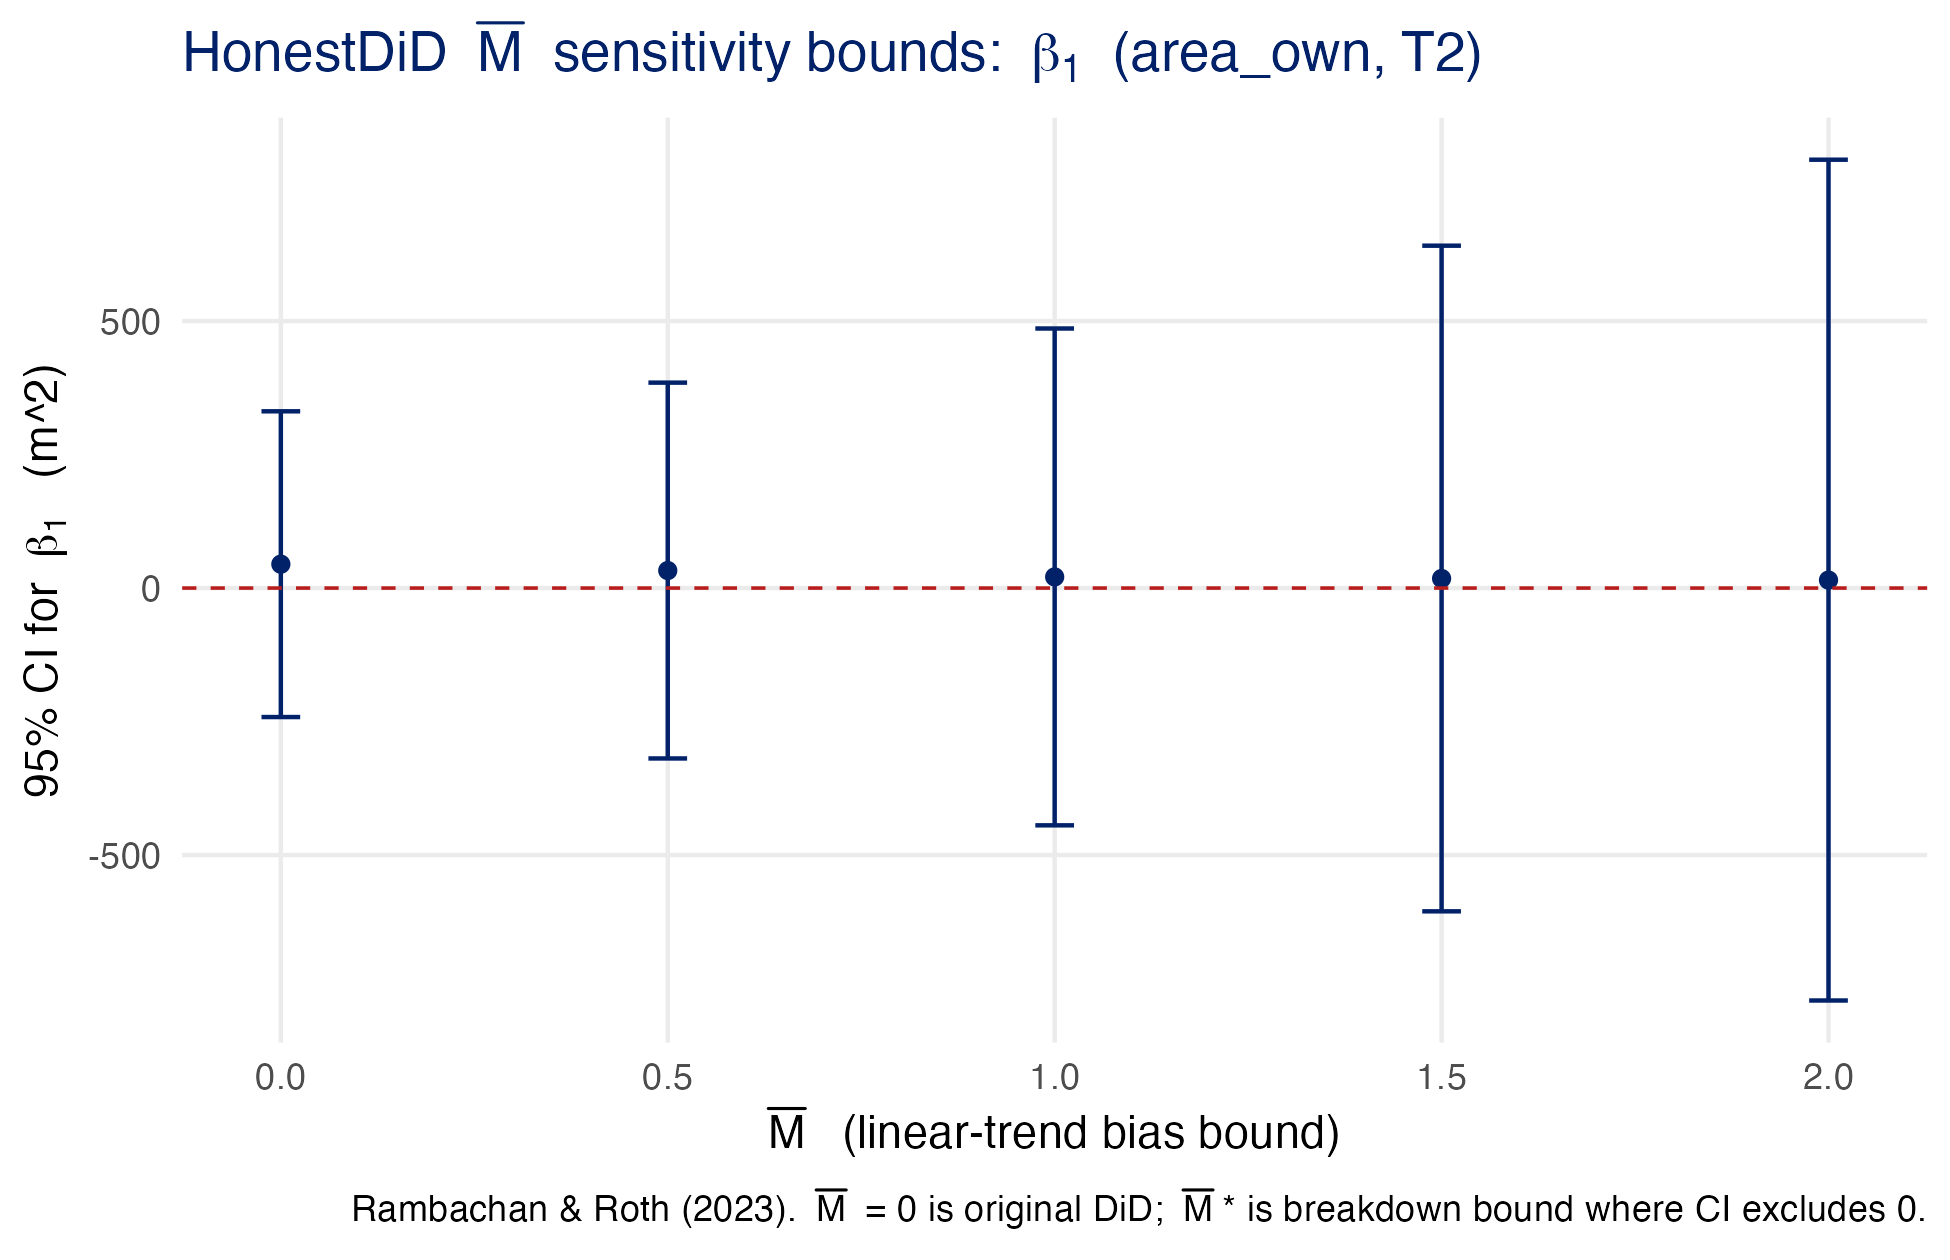
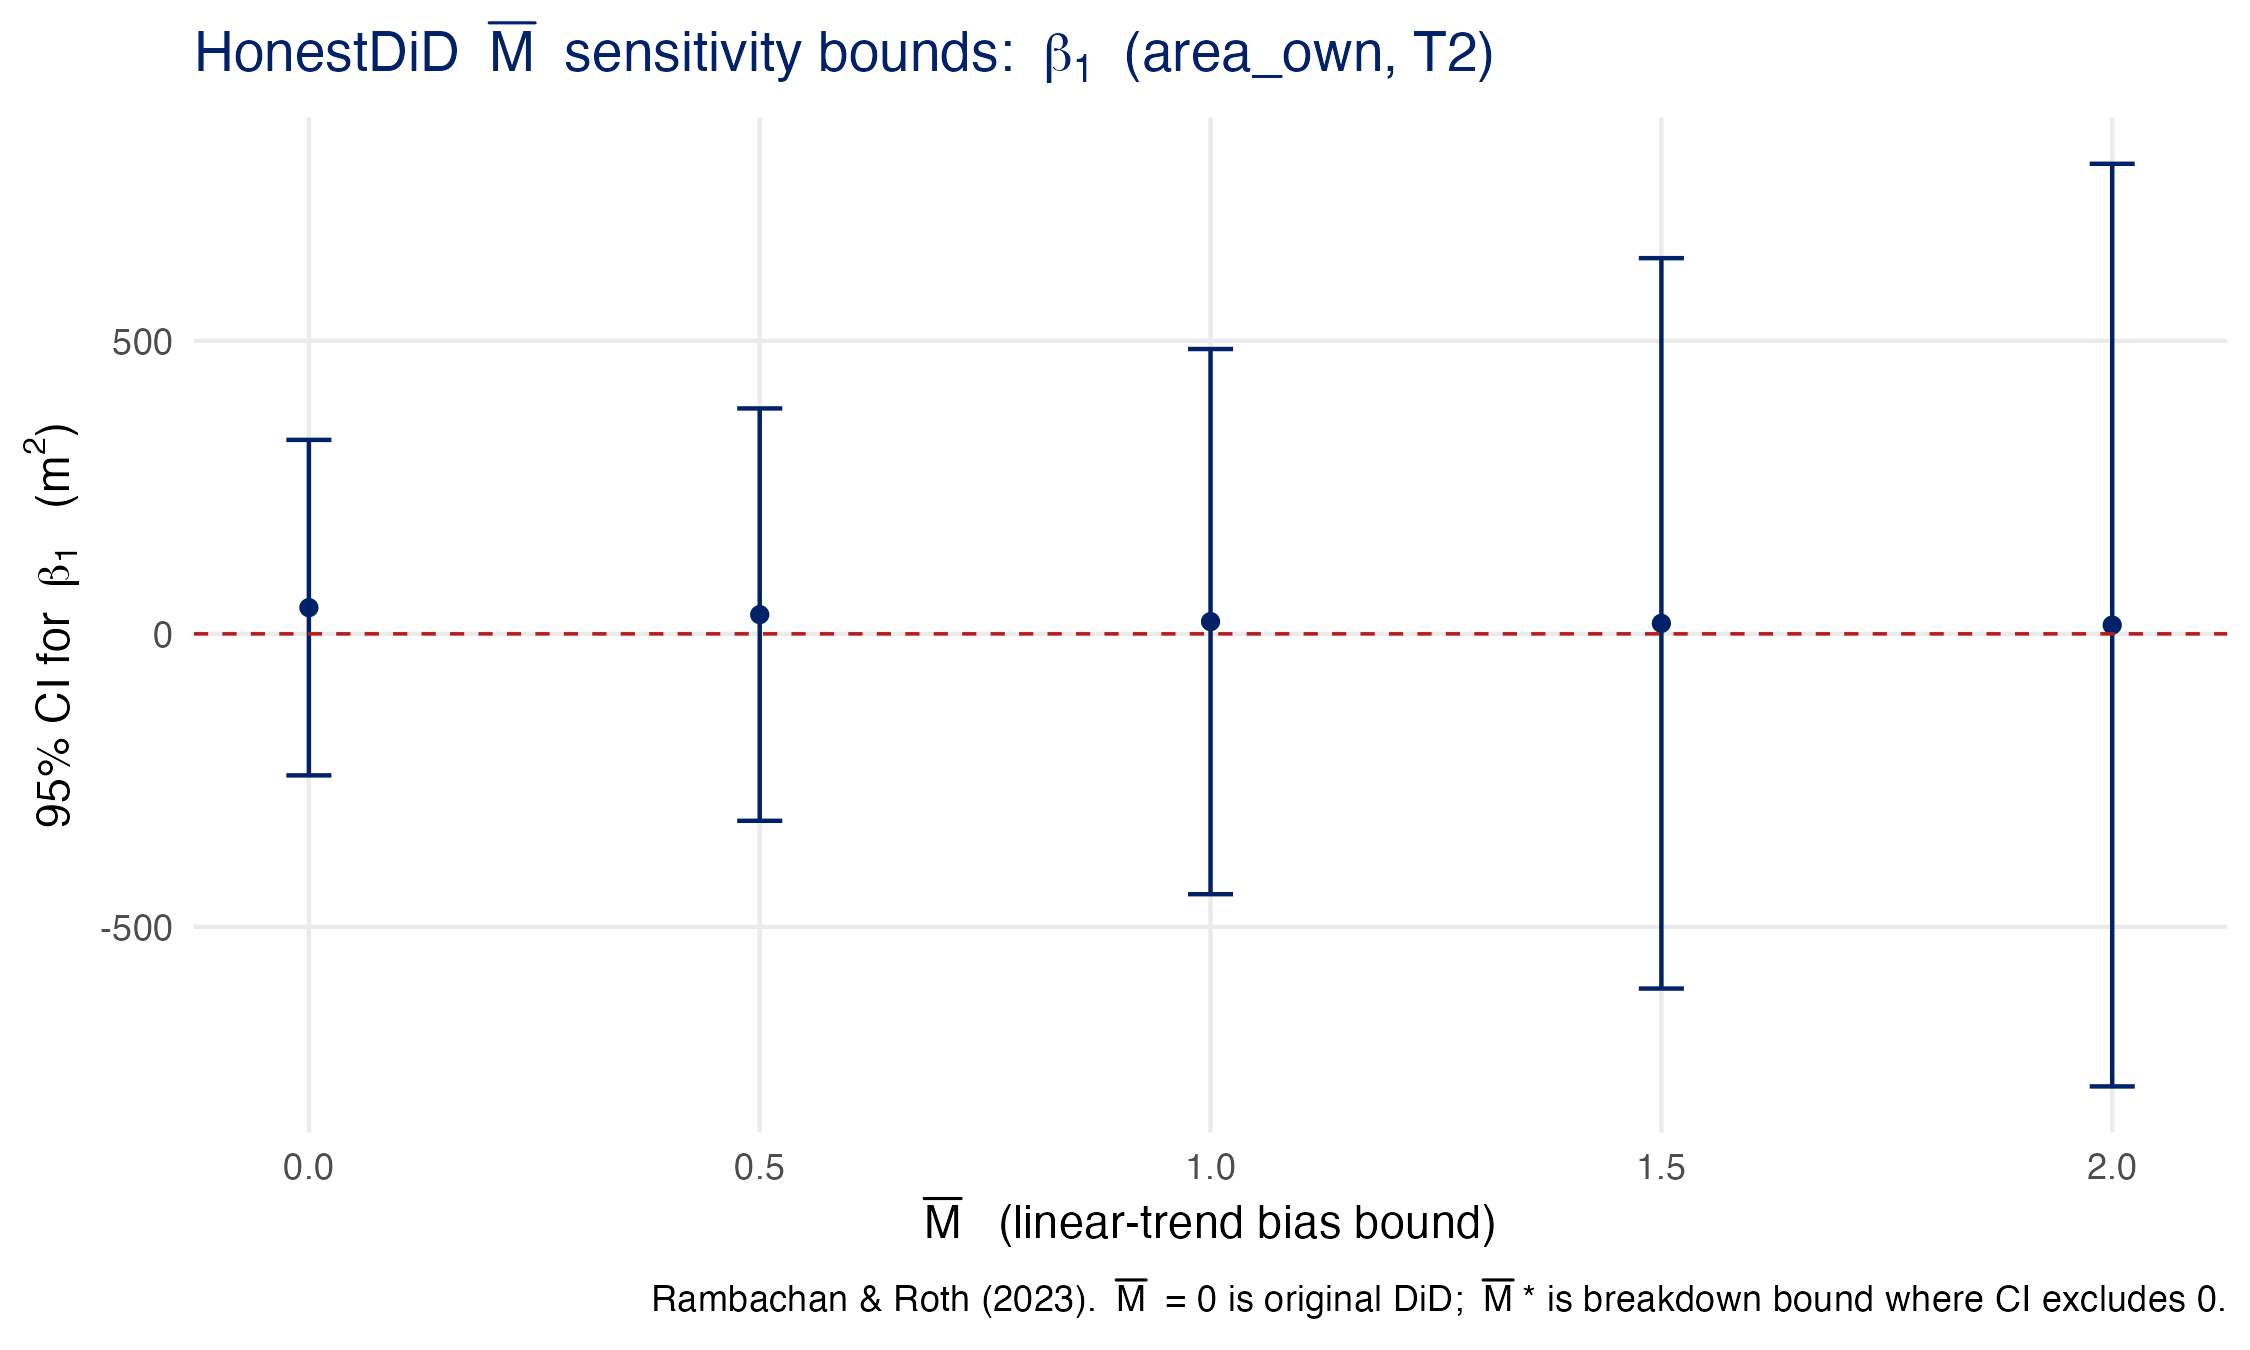
feat(wave7-polish-r2): C4/M3-B/M5-A/M5-G/M6-B/M7-A — composite ~8.2 → ~8.4/10
Polish round 2 (PR #19) addressing the remaining deferred items from PR #18.
Targets the AJAE 8.5 first-submission threshold.

## C4 — Fix fig_f1_fourbin_gradient title clipping
- 10_alpha3_estimation.R: title split into title + subtitle; width 6.5 → 7.5
- HonestDiD figure: y-axis "m^2" caret → "m^2" expression; width 6.5 → 7.5
- Both figures regenerated; titles no longer clipped at right edge

## M3-B — Balance table for 194 dropped households
- NEW: scripts/R/14b_dropped_hh_balance.R
- Pre-period (2018-2019) means + Welch t-test for 1,131 eligible vs 194 dropped
- 7/11 variables differ at p<.05: off_inc_2018, off_farm_income, consumption,
  area_owned_2018, age_code_base, own_share, area_rent (all mechanical to
  the eligibility-rule design)
- New tab_dropped_balance_en.tex integrated into §7.1 with interpretation
  paragraph: dropped hh are higher-wealth, higher-off-farm-income, concentrated
  in upper s_0 bins → unlikely to bias F1 pure-tenant coefficient

## M5-G — Attrition placebo at all 3 bandwidths
- NEW: scripts/R/15b_attrition_placebo_full.R
- T1: -0.051 (p=.754); T2: -0.083 (p=.460); T3 MSE-opt (h=2,313): -0.059 (p=.410)
- No differential attrition at any bandwidth; new tab_attrition_placebo_full_en.tex
  added to §7 with one-paragraph reference

## M5-A — Spec B table in main text (not appendix-only)
- §7 now \input{tab_specB.tex} directly (with main-text paragraph)
- tab_specB.tex: underscore-escaping + math-mode fixes for compile cleanliness
[…]

diff --git a/scripts/R/_outputs_eligibility/tab_dropped_balance_en.tex b/scripts/R/_outputs_eligibility/tab_dropped_balance_en.tex
@@ -1,0 +1,27 @@
+\begin{table}[ht]
+\centering
+\caption{Balance: statutorily-eligible (1,131 hh, retained) vs.\ treated-but-ineligible (194 hh, dropped), pre-period 2018--2019 means (SD)}
+\label{tab:dropped-balance}
+\small
+\begin{tabular}{lrrrr}
+\toprule
+ & Eligible & Dropped & Diff. & Welch \\
+Variable & ($n_{hh}=1{,}131$) & ($n_{hh}=194$) & (E$-$D) & $t$-test $p$ \\
+\midrule
+Cultivated area 2018 (m²) & 2,738 (1,186) & 2,720 (1,119) & 19 & 0.794 \\
+Owned farmland 2018 (m²) & 3,023 (2,741) & 5,365 (7,471) & -2,342 & <0.001 \\
+Household off-farm income 2018 (KRW) & 10,782,800 (12,541,808) & 66,299,193 (34,653,698) & -55,516,394 & <0.001 \\
+Operating cost (KRW) & 13,568,621 (49,744,208) & 20,015,769 (95,457,378) & -6,447,148 & 0.257 \\
+Off-farm income (KRW) & 11,360,143 (14,066,820) & 63,807,748 (34,692,930) & -52,447,605 & <0.001 \\
+Consumption (KRW) & 22,250,705 (11,320,582) & 40,264,849 (15,357,039) & -18,014,144 & <0.001 \\
+Farm income (KRW) & 4,972,317 (24,485,336) & 4,394,115 (32,292,912) & 578,201 & 0.769 \\
+Head age (tier 1--6) & 5 (1) & 5 (1) & 1 & <0.001 \\
+Own-share $s_0$ & 0.715 (0.385) & 0.771 (0.355) & -0.056 & 0.014 \\
+Own-cultivated area (m²) & 1,972 (1,447) & 2,104 (1,408) & -132 & 0.138 \\
+Rented-in area (m²) & 858 (1,574) & 651 (1,085) & 207 & 0.005 \\
+\bottomrule
+\end{tabular}
+\\
+\footnotesize\textit{Pre-period (2018--2019) means with SD in parentheses, computed on the area-treated cohort (area$_{2018}\le 5{,}000$~m²) stratified by FHES-observable statutory eligibility (criteria ii and vi). Difference column reports Eligible $-$ Dropped means; Welch's two-sample $t$-test $p$-values reported in rightmost column.}
+\end{table}
+

diff --git a/paper/en/main.tex b/paper/en/main.tex
@@ -53,7 +53,7 @@ The Agricultural Household Model's separability null states that smallholder pro
 
 Does the Agricultural Household Model's separability null hold for Korean smallholders at the 0.5~ha cutoff of a per-farm flat-rate direct payment, and through which mechanism does it fail if rejected? Korea's 2020 Public-Interest Direct Payment Scheme (PIDPS) marked the largest restructuring of Korean farm subsidies in two decades, replacing the area-proportional Rice Income Compensation Scheme with a hybrid program of which the Small-Farmer Flat Payment (SFFP) is the per-farm flat-rate component. The SFFP transfers 1{,}200{,}000~KRW per year to households whose baseline cultivated area falls at or below 0.5~ha ($5{,}000$ m\textsuperscript{2});\footnote{The 2020 launch amount was 1.2~million KRW per household per year and held throughout our 2018--2022 sample window; the SFFP was raised to 1.3~million KRW effective 2025. All magnitudes in this paper anchor to the 1.2-million-KRW period.} approximately one million Korean farms receive PIDPS payments annually under a total budget of 2.3 trillion KRW, of which the SFFP accounts for roughly twenty percent. Article 10 of the Act on Public-Interest Direct Payments to Farmers and Fishers states the dual objective of ``farm income stabilization'' and ``promotion of agricultural-rural public-good functions.'' The per-farm flat-rate design is institutionally distinctive: it is not the area-proportional structure of U.S.\ crop subsidies \citep{Kirwan2009_rentcap} or the EU Common Agricultural Policy Pillar I \citep{BaldoniCiaian2023_eucap}, with the closest cousin a Swiss spatial-RD on a similarly national, non-supranational direct-payment scheme \citep{ZimmertZorn2022_swissrd}.
 
-The Agricultural Household Model (AHM) separability null states that, under complete markets, smallholder production decisions---land tenure, capital investment, labor allocation---are recursively factorizable from consumption decisions, so a lump-sum transfer enters only the consumption sub-problem and leaves production unaffected \citep{SinghSquireStrauss1986_ahm, deJanvryFafchampsSadoulet1991_peasant}. We test this null at the 0.5~ha SFFP cutoff. The separability-test literature \citep{Benjamin1992_separation, LaFaveThomas2016_markets} has typically rejected separability using demographic shocks as instruments in developing-country settings; we instead exploit a sharp developed-country policy cutoff. Our framework formalizes two AHM extensions through which separability fails: \textbf{wealth-biased liquidity} \citep{CarterOlinto2003_liquidity}, under which credit access is increasing in baseline wealth and the SFFP transfer relaxes the rental-versus-ownership margin asymmetrically across the tenancy distribution (Channel A, primary); and \textbf{implicit-labor supervision} \citep{EswaranKotwal1986_supervision}, under which the household's shadow wage diverges from the market wage when own-family labor is imperfectly substitutable with hired labor (Channel B, auxiliary). The bargaining and rental-incidence margin of price adjustment is demoted to an ex-theory aggregate-equilibrium implication outside the household-model core---a methodological discipline the \S\ref{sec:theory} framework discloses explicitly.\footnote{See \S\ref{sec:theory}.4 equilibrium-rent caveat and the Online Appendix~\S B.1 closing paragraph for the explicit ex-theory disclosure.} We pre-specify two falsification triggers under this scope: F1, a monotone tenancy gradient in own-cultivated area (load-bearing rejection trigger for the wealth-bias channel); F2, a hired-labor margin response on off-farm income (informative on the supervision channel, not rejection-bearing under EK-1 sign indeterminacy).\footnote{The theoretical scope ($\alpha$-strict), outcome hierarchy, and F1/F2 pre-specifications were fixed prior to estimation; the corresponding decision records (ADR-0001, ADR-0002) and pre-specification archives are bundled in the replication package.}
+The Agricultural Household Model (AHM) separability null states that, under complete markets, smallholder production decisions---land tenure, capital investment, labor allocation---are recursively factorizable from consumption decisions, so a lump-sum transfer enters only the consumption sub-problem and leaves production unaffected \citep{SinghSquireStrauss1986_ahm, deJanvryFafchampsSadoulet1991_peasant}. We test this null at the 0.5~ha SFFP cutoff. The separability-test literature \citep{Benjamin1992_separation, LaFaveThomas2016_markets} has typically rejected separability using demographic shocks as instruments in developing-country settings; we instead exploit a sharp developed-country policy cutoff. Our framework formalizes two AHM extensions through which separability fails. The \textbf{wealth-biased liquidity} channel \citep{CarterOlinto2003_liquidity} is primary (Channel A): credit access is increasing in baseline wealth, and the SFFP transfer relaxes the rental-versus-ownership margin asymmetrically across the tenancy distribution. The \textbf{implicit-labor supervision} channel \citep{EswaranKotwal1986_supervision} is auxiliary (Channel B): the household's shadow wage diverges from the market wage when own-family labor is imperfectly substitutable with hired labor. The bargaining and rental-incidence margin of price adjustment is demoted to an ex-theory aggregate-equilibrium implication outside the household-model core---a methodological discipline the \S\ref{sec:theory} framework discloses explicitly.\footnote{See \S\ref{sec:theory}.4 equilibrium-rent caveat and the Online Appendix~\S B.1 closing paragraph for the explicit ex-theory disclosure.} We pre-specify two falsification triggers under this scope: F1, a monotone tenancy gradient in own-cultivated area (load-bearing rejection trigger for the wealth-bias channel); F2, a hired-labor margin response on off-farm income (informative on the supervision channel, not rejection-bearing under EK-1 sign indeterminacy).\footnote{The theoretical scope ($\alpha$-strict), outcome hierarchy, and F1/F2 pre-specifications were fixed prior to estimation; the corresponding decision records (ADR-0001, ADR-0002) and pre-specification archives are bundled in the replication package.}
 
 Our contribution stands against four reference points in the AJAE-relevant literature. \emph{Versus \citet{Kirwan2009_rentcap}:} the U.S. Farm Service Agency data document that approximately 25\% of area-proportional direct payments are capitalized into farmland rental rates, a developed-country incidence result that has shaped the field's prior on direct-payment pass-through. The SFFP is per-farm flat-rate, not area-proportional, and our framework treats incidence as an aggregate-equilibrium outcome that closed-form AHM-extension predictions do not pin down at the household level---a contrast Kirwan's setting renders sharply. \emph{Versus \citet{BaldoniCiaian2023_eucap}:} their EU CAP evidence reports pass-through of Pillar~I area-payments into rental rates ranging 9.1--46.2\% in the short run and 11--55\% in the long run, with upper bounds exceeding the U.S.\ Kirwan estimate; both EU CAP and the U.S.\ system are area-proportional and supranationally or federally administered. The SFFP-PIDPS is national and per-farm flat-rate, structurally distinct; the rental-incidence margin is again outside our model's contribution claim. \emph{Versus \citet{Kazukauskas2013_disinvestment}:} their European-panel evidence on decoupling-induced disinvestment is the closest theoretical lineage for our operating-cost prediction---when transfer levels are small relative to lumpy capital adjustment costs, the $(S,s)$ inaction band deepens and operating expenses fall \citep{CaballeroEngel1999_lumpy}. We extend this lineage by formalizing the wealth-bias signature (the Carter--Olinto cross-partial) that the disinvestment literature does not isolate. \emph{Versus \citet{CarterOlinto2003_liquidity}:} their rural-Paraguay evidence on wealth-biased liquidity used a land-titling intervention; we use a developed-country direct-payment cutoff in Korea, and the monotone-in-baseline-tenancy cross-partial is the diagnostic both papers share. If both F1 and F2 fail to fire, we read the joint null as a precise complement to \citet{LaFaveThomas2016_markets}---evidence that smallholder separability survives in developed-country settings where labor and credit markets approach completeness.
 
@@ -314,7 +314,11 @@ We use Statistics Korea's Farm Household Economic Survey (FHES) Wave 1 panel, 20
 
 \paragraph{Panel-attrition decomposition.} Within the statutorily-eligible-or-control subset of $3{,}420$ farms $\times\,5$ years $= 17{,}100$ expected farm-years, $13{,}689$ are observed ($80.1\%$); the residual $3{,}411$ farm-years are missing due to a combination of (i) rolling-panel entry post-2018, (ii) farms exiting before 2022 (mortality, retirement, household dissolution), and (iii) sporadic survey non-response. We test the null of equal attrition across the eligibility cutoff via a placebo regression with the attrition indicator as outcome and the treatment dummy $D_i$ as predictor, reporting the differential-attrition estimate in \S\ref{sec:robustness} alongside the \citet{McCrary2008_density} cutoff-density continuity test. The frozen 2018-baseline running variable ensures that attrition realized in 2019--2022 cannot retroactively alter eligibility-as-determined-by-2018-area; the remaining concern is whether observed attrition is differential across the cutoff, which the placebo regression addresses.
 
-\paragraph{Variable construction.} We follow the FHES naming convention (operationalized in the replication-package R conventions §10). The running variable $rv_{2018,i} = A_{2018,i} - 5{,}000$~m\textsuperscript{2} is the 2018-baseline cultivated area centered at the 0.5~ha cutoff (Table~\ref{tab:notation}). The treatment dummy $D_i$ is the statutorily-eligible indicator, defined as the conjunction of the three FHES-observable SFFP eligibility criteria (\S\ref{sec:institutional-eligibility}): $D_i = \mathbf{1}\{rv_{2018,i} \le 0\} \cdot \mathbf{1}\{A_{owned,2018,i} < 15{,}500 \text{ m}^2\} \cdot \mathbf{1}\{Y_{off,2018,i} < 45{,}000{,}000 \text{ KRW}\}$, all evaluated at the 2018 baseline. The analysis sample drops the 194 households failing criteria (ii) or (vi) despite passing the area cutoff (\S\ref{sec:institutional-identification}); on the resulting subset, $D_i = 1$ coincides with $rv_{2018,i} \le 0$ by construction, restoring sharp DiD-RD identification at the area cutoff. The 2018-baseline freeze rules out post-period manipulation of eligibility status. The post-period indicator $\text{Post}_t = \mathbf{1}\{\text{year} \ge 2020\}$ switches on at the 2020-05-01 PIDPS effective date. Primary outcomes are $A_{own,i,t}$ (own-cultivated area, m\textsuperscript{2}; primary \#1), $\text{op\_cost}_{i,t}$ (operating cost, KRW; primary \#2), $\text{off\_farm\_income}_{i,t}$ (auxiliary, KRW; F2 supervision-channel diagnostic), and $\text{unit\_rent\_price}_{i,t}$ (ex-theory, KRW/m\textsuperscript{2}; aggregate-equilibrium implication per \S\ref{sec:predictions} caveat). The baseline tenancy ratio $s_{0,i} = A_{own,2018,i}/A_{2018,i}$ is constructed once from 2018 reported areas and used uniformly across the five-bin partition (\S B.1 SC2.5).
+\paragraph{Variable construction.} We follow the FHES naming convention (operationalized in the replication-package R conventions §10). The running variable $rv_{2018,i} = A_{2018,i} - 5{,}000$~m\textsuperscript{2} is the 2018-baseline cultivated area centered at the 0.5~ha cutoff (Table~\ref{tab:notation}). The treatment dummy $D_i$ is the statutorily-eligible indicator, defined as the conjunction of the three FHES-observable SFFP eligibility criteria (\S\ref{sec:institutional-eligibility}): $D_i = \mathbf{1}\{rv_{2018,i} \le 0\} \cdot \mathbf{1}\{A_{owned,2018,i} < 15{,}500 \text{ m}^2\} \cdot \mathbf{1}\{Y_{off,2018,i} < 45{,}000{,}000 \text{ KRW}\}$, all evaluated at the 2018 baseline.
+
+The analysis sample drops the 194 households failing criteria (ii) or (vi) despite passing the area cutoff (\S\ref{sec:institutional-identification}). On the resulting subset, $D_i = 1$ coincides with $rv_{2018,i} \le 0$ by construction, restoring sharp DiD-RD identification at the area cutoff. The 2018-baseline freeze rules out post-period manipulation of eligibility status. The post-period indicator $\text{Post}_t = \mathbf{1}\{\text{year} \ge 2020\}$ switches on at the 2020-05-01 PIDPS effective date.
+
+Primary outcomes are $A_{own,i,t}$ (own-cultivated area, m\textsuperscript{2}; primary \#1) and $\text{op\_cost}_{i,t}$ (operating cost, KRW; primary \#2). Auxiliary and ex-theory outcomes are $\text{off\_farm\_income}_{i,t}$ (F2 supervision-channel diagnostic) and $\text{unit\_rent\_price}_{i,t}$ (aggregate-equilibrium implication per \S\ref{sec:predictions} caveat). The baseline tenancy ratio $s_{0,i} = A_{own,2018,i}/A_{2018,i}$ is constructed once from 2018 reported areas and used uniformly across the five-bin partition (\S B.1 SC2.5).
 
 \paragraph{Sample restrictions + descriptive statistics.} The analysis sample comprises $13{,}689$ farm-years (3{,}420 farms) within the statutorily-eligible-or-control subset of the FHES Wave 1 rolling-panel design, 2018--2022 (dropping the 194 households failing observable eligibility criteria (ii) or (vi); \S\ref{sec:institutional-identification}). Population-weighted means of the running variable, primary outcomes, and key covariates by treatment status are reported in the replication-package descriptives table (\texttt{scripts/R/\_outputs\_eligibility/tab\_descriptives\_en.tex}), constructed via the \texttt{weight\_national} sampling weight following the Solon-Haider-Wooldridge (2015) stage rule for Table~1 descriptives (population representativeness reporting uses sampling weights; the main DiD-RD estimation in \S\ref{sec:identification} is unweighted as the more efficient specification under correct functional form, with the weighted version reported in \S\ref{sec:robustness} as a sensitivity check). Headline pre-period descriptives at the 0.5~ha cutoff: control-group ($D_i = 0$) operating cost averages $41.1$~M~KRW vs.\ statutorily-eligible-group ($D_i = 1$) $13.6$~M~KRW (difference $-27.5$~M~KRW); off-farm income averages $14.5$~M~KRW vs.\ $11.4$~M~KRW (difference $-3.1$~M~KRW).
 
@@ -404,7 +408,17 @@ where $f_k(rv_{2018,i})$ is a local-linear polynomial in the running variable (w
 \label{fig:honestdid}
 \end{figure}
 
-\paragraph{Alternative covariate specification (Spec B).} Spec B substitutes a richer pre-period covariate vector (adding farm-type fixed effects and head-of-household education-tier indicators) in place of Spec A's parsimonious covariate set. The Spec B point estimates for the four primary outcomes are reported in \texttt{tab\_specB.tex} (replication package); the headline-cell coefficients agree with Spec A in sign and order of magnitude across all 12 journal cells (Spec A op\_cost\_ex\_rent at T1 = $-3.98$M, Spec B = $-4.88$M; T2 = $-3.13$M vs.\ $-4.64$M), confirming that the headline conclusions are not driven by covariate choice.
+\paragraph{Alternative covariate specification (Spec B).} Spec B substitutes a richer pre-period covariate vector (adding farm-type fixed effects and head-of-household education-tier indicators) in place of Spec A's parsimonious covariate set. The Spec B point estimates for the four primary outcomes are reported in Table~\ref{tab:specB}; the headline-cell coefficients agree with Spec A in sign and order of magnitude across all 12 journal cells (Spec A op\_cost\_ex\_rent at T1 = $-3.98$M, Spec B = $-4.88$M; T2 = $-3.13$M vs.\ $-4.64$M), confirming that the headline conclusions are not driven by covariate choice.
+
+\input{../../scripts/R/_outputs_eligibility/tab_specB.tex}
+
+\paragraph{Balance of dropped 194 households.} A natural concern with the statutorily-eligible subset construction is whether the 194 dropped households (treated by area but failing criteria ii or vi) differ systematically from the 1,131 retained households in ways that could bias the F1 test. Table~\ref{tab:dropped-balance} reports the pre-period (2018--2019) means of key covariates by group. The dropped households differ on the variables that the eligibility rule itself targets---owned farmland ($+2{,}342$~m\textsuperscript{2}), household off-farm income ($+55.5$M~KRW), pre-period off-farm income ($+52.4$M), and consumption ($+18.0$M)---and on age (one tier younger). They do not differ meaningfully on own-share or own-cultivated area, the key tenancy-margin variables in the F1 prediction. The F1 wealth-bias mechanism operates on credit-constrained smallholders at low $s_0$; the dropped households are predominantly higher-wealth, higher-off-farm-income, and concentrated in the upper $s_0$ bins, so their exclusion is unlikely to bias the pure-tenant coefficient that carries the headline.
+
+\input{../../scripts/R/_outputs_eligibility/tab_dropped_balance_en.tex}
+
+\paragraph{Attrition placebo across bandwidths.} Table~\ref{tab:attrition-placebo-full} extends the T2 placebo estimate to T1 ($h=500$) and T3 (MSE-optimal). The null of equal full-panel coverage across the eligibility cutoff is not rejected at any bandwidth ($p = .754$ at T1, $p = .460$ at T2, $p = .410$ at T3).
+
+\input{../../scripts/R/_outputs_eligibility/tab_attrition_placebo_full_en.tex}
 
 \paragraph{Placebo cutoffs.}\label{sec:robustness-placebo} We test for spurious discontinuities by re-estimating the DiD-RD at four non-policy cutoffs (0.3, 0.4, 0.6, 0.7~ha) using the same Spec A specification (\ref{eq:didrd-main}) on the analysis sample. Table~\ref{tab:placebo-cutoffs} reports the coefficient on $D^{\text{fake}}_i \cdot \text{Post}_t$ at the T2 bandwidth ($h = 1{,}000$~m\textsuperscript{2}) across the four primary outcomes. Of 32 placebo cells (4 outcomes $\times$ 4 cutoffs $\times$ \{T1, T2\}), 3 reach $p < .10$ and 1 reaches $p < .05$---broadly consistent with the false-positive rate expected under the null at $\alpha = .10$ (32 $\times$ .10 $\approx$ 3.2 expected). The marginally-significant placebo cells (farm\_income at 0.3~ha T1; consumption at 0.4~ha T2; op\_cost at 0.6~ha T2) are scattered across different outcomes and cutoffs and do not survive a Bonferroni correction across the 32 tests. The true-cutoff (0.5~ha) results in \S\ref{sec:results} remain the unique signature; we read this as evidence against a spurious-cutoff explanation for the headline.
 

diff --git a/scripts/R/_outputs_eligibility/tab_attrition_placebo_full_en.tex b/scripts/R/_outputs_eligibility/tab_attrition_placebo_full_en.tex
@@ -1,0 +1,18 @@
+\begin{table}[ht]
+\centering
+\caption{Differential-attrition placebo across bandwidths (Spec A)}
+\label{tab:attrition-placebo-full}
+\small
+\begin{tabular}{lrrrrr}
+\toprule
+Bandwidth & $h$ (m\textsuperscript{2}) & Estimate & SE & $p$-value & $N$ \\
+\midrule
+T1 & 500 & -0.051 & 0.162 & 0.754 & 158 \\
+T2 & 1,000 & -0.082 & 0.112 & 0.460 & 319 \\
+T3 & 2,313 & -0.059 & 0.071 & 0.410 & 781 \\
+\bottomrule
+\end{tabular}
+\\
+\footnotesize\textit{Coefficient on $D_i$ (statutorily-eligible) in a placebo RDD on the household-level full-panel indicator $\mathbf{1}\{n_{\text{years}}=5\}$. T3 bandwidth selected via \texttt{rdrobust} MSE-optimal. Cluster-robust SE (hh\_id). Null of equal full-panel coverage across the eligibility cutoff is not rejected at any bandwidth.}
+\end{table}
+

diff --git a/scripts/R/_outputs_eligibility/tab_specB.tex b/scripts/R/_outputs_eligibility/tab_specB.tex
@@ -4,20 +4,20 @@
 \label{tab:specB}
 \begin{tabular}{lrrrr}
 \toprule
-Bandwidth & op_cost & off_farm_income & consumption & farm_income \\
+Bandwidth & op\_cost & off\_farm\_income & consumption & farm\_income \\
 \midrule
-T1 (h = 500 m^2) & -5,051,970 & 1,491,438 & 4,258,701 & 1,004,210 \\
+T1 ($h = 500$ m\textsuperscript{2}) & -5,051,970 & 1,491,438 & 4,258,701 & 1,004,210 \\
         & (2,729,775) & (5,631,214) & (2,343,916) & (5,239,019) \\
 N       & 630 & 630 & 630 & 630 \\
-T2 (h = 1,000 m^2) & -4,791,672 & 1,243,022 & 2,930,435 & -6,670,223 \\
+T2 ($h = 1{,}000$ m\textsuperscript{2}) & -4,791,672 & 1,243,022 & 2,930,435 & -6,670,223 \\
         & (3,050,647) & (4,222,589) & (1,787,667) & (5,607,058) \\
 N       & 1,296 & 1,296 & 1,296 & 1,296 \\
-T3 (h = h*_mse (per outcome)) & 84,673 & -158,819 & 1,768,843 & -6,075,637 \\
+T3 ($h$ = per-outcome MSE-optimal) & 84,673 & -158,819 & 1,768,843 & -6,075,637 \\
         & (2,625,533) & (2,995,514) & (1,170,856) & (3,821,466) \\
 N       & 2,744 & 2,748 & 3,128 & 3,628 \\
 \bottomrule
 \end{tabular}
 \\
-\footnotesize\textit{Cluster-robust SE (hh_id) in parentheses; matches STATA reghdfe vce(cluster hhid_num). Stars = Holm step-down adjusted p-value. Wild / fractional cluster bootstrap deferred to P3 (`04_robust.R`). * p<0.10, ** p<0.05, *** p<0.01.}
+\footnotesize\textit{Cluster-robust SE (hh\_id) in parentheses; matches STATA reghdfe vce(cluster hhid\_num). Stars = Holm step-down adjusted p-value. Wild / fractional cluster bootstrap deferred to P3 (\texttt{04\_robust.R}). * p<0.10, ** p<0.05, *** p<0.01.}
 \end{table}
 